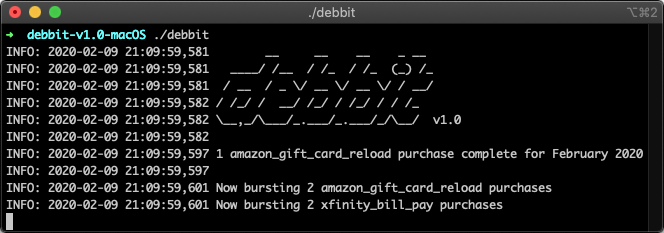
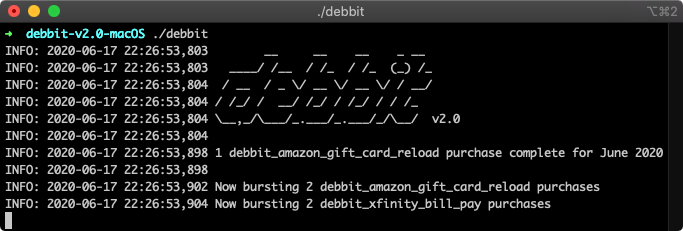
set release version v2.0

Changed region(s): [[0.0, 0.0, 1.0, 1.0], [0.0, 0.2121, 0.6928, 0.6061]]

diff --git a/src/debbit.py b/src/debbit.py
@@ -649,8 +649,8 @@ if __name__ == '__main__':
     STATE_WRITE_LOCK = Lock()
     WEB_DRIVER_LOCK = Lock()
     DAYS_IN_MONTH = {1: 31, 2: 28, 3: 31, 4: 30, 5: 31, 6: 30, 7: 31, 8: 31, 9: 30, 10: 31, 11: 30, 12: 31}
-    VERSION = 'v1.0.2-dev'
-    VERSION_INT = 2
+    VERSION = 'v2.0'
+    VERSION_INT = 3
 
     LOGGER.info('       __     __    __    _ __ ')
     LOGGER.info('  ____/ /__  / /_  / /_  (_) /_')

diff --git a/README.md b/README.md
@@ -1,7 +1,7 @@
 <a href="https://i.imgur.com/6TQjwsI.mp4"><img align="right" src="debbit_preview.png"></a>
 
 # debbit
-**Click image for video demo [👉](https://i.imgur.com/6TQjwsI.mp4)**
+**Click pic for video demo [👉](https://i.imgur.com/6TQjwsI.mp4)**
 
 ### Download
 
